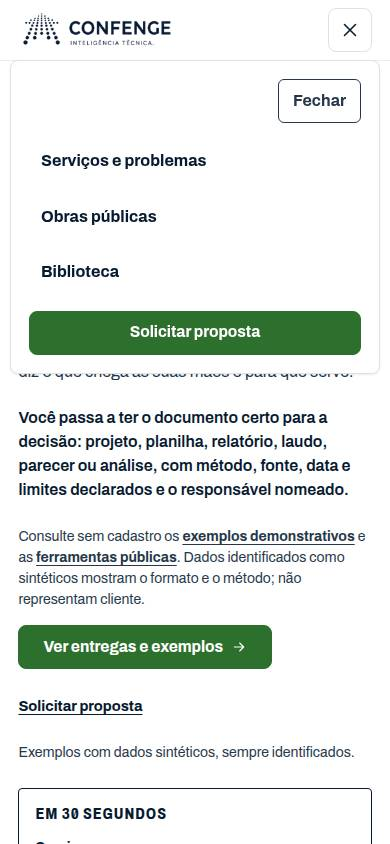
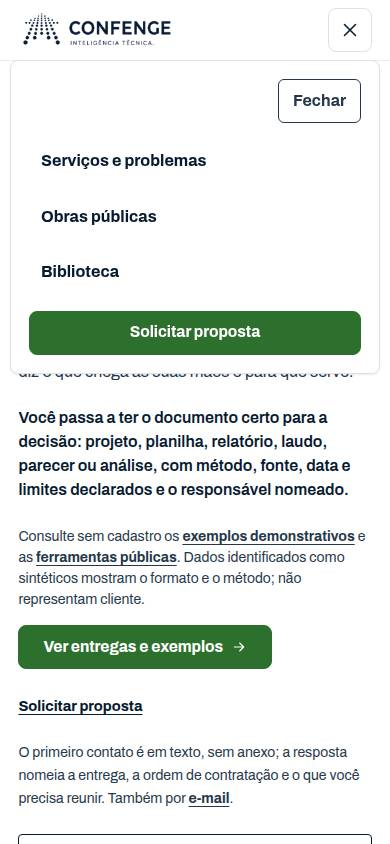
docs(campanha): correcoes apos revisao da onda 2 em /entregas/: relatorio (achado -> acao -> prova, refutacoes parciais, resultado real do task-doors, desempenho remedido), matriz, pedidos 17-22, prancha PG registrada, evidencia 390/1440 recapturada

diff --git a/docs/campaigns/design-institucional/expansao/relatorio-lote-a.md b/docs/campaigns/design-institucional/expansao/relatorio-lote-a.md
@@ -337,29 +337,38 @@ gerado não foi editado à mão):
   (necessidade), `p.hero-deliverable` (o que chega às mãos), `p.offer-proof-line.t-caption` (prova
   conferível, texto idêntico), `svc-open__actions` com **uma** ação dominante `button-primary
   button-lg` "Ver entregas e exemplos" → `#servicos-e-entregas` e "Solicitar proposta" →
-  `#captura-entregas` como alternativa em texto, `svc-open__note` ("Exemplos com dados sintéticos,
-  sempre identificados." — o antigo `hero-h1-note`, gancho do live audit), `aside.aside-note` "Em 30
-  segundos" (Serviços · Análises com preço · Antes do aceite técnico · Quem assina) e `nav.page-index`
-  com quatro âncoras. O antigo bloco navy "Comece pelo que você precisa" saiu (o índice o substitui).
-  Botão dominante medido no Chromium: 669 px no 390×844, 670 px no 1366×768.
+  `#captura-entregas` como alternativa em texto, `svc-open__note` com o e-mail contextual (como no
+  piloto; após a revisão — antes carregava uma segunda ressalva de dados sintéticos), `aside.aside-note`
+  "Em 30 segundos" (Serviços · Análises com preço · Antes do aceite técnico · Quem assina) e
+  `nav.page-index` com quatro âncoras. A ressalva de dados sintéticos fica uma vez na dobra, na
+  `offer-proof-line`, que carrega também o gancho `hero-h1-note` do live audit. O antigo bloco navy
+  "Comece pelo que você precisa" saiu (o índice o substitui). Botão dominante medido no Chromium:
+  669 px no 390×844, 670 px no 1366×768.
 - **Serviços de engenharia** (`section.capability-roll.sec#servicos-e-entregas`, `reading_method`):
   `sec-head--split` (kicker, h2 `t-editorial` com o texto exigido pelo gate, parágrafo) e
-  `ol.list-ruled` com cinco linhas `01–05` (`article.capability-group` preservado com h3, parágrafo e
-  `<a href="/…">`), esquema ilustrativo em `details` regrado na segunda coluna a partir de 900 px, link
-  de saída com seta. Sem grade de cartões.
+  prancha PG `figure.plate.plate--dominant` (`pacote-entrega`, já registrada em `assets-lote-a.json`;
+  slot `<!-- plate:pacote-entrega -->` e `<picture>` emitidos pelo gerador exatamente como
+  `plates/inline.py` os materializa, `inline --check` limpo; legenda com `span.tag` "Exemplo
+  demonstrativo"), e `ol.list-ruled` com cinco linhas `01–05` (`article.capability-group` preservado
+  com h3, parágrafo e `<a href="/…">`), esquema ilustrativo em `details` regrado na segunda coluna a
+  partir de 900 px, link de saída com seta. Sem grade de cartões.
 - **Ofertas com preço publicado** (`section.deliverables-vitrine.sec.sec--soft#enquadrar`,
   `catalog_index`): `sec-head--split`, índice pela decisão `nav.offer-decision-nav.page-index`
   ("Escolha pela decisão que está na mesa", 01–08 → `#entrega-NN`, sem caixa navy), e
   `div.vitrine-items > ol.list-ruled.list-ruled--offers` com as oito linhas: índice, kicker "Oferta
   publicada", h2 (ids `first-deliverable-title` … preservados) e preço à direita (`strong` bare, lido
   por `test_brand_contract`), `dl.vitrine-item__facts` como lista de definição regrada (rótulo | valor;
-  11 critérios, entrega antes do preço; abaixo de 480 px rótulo em coluna de 6 rem e valor em corpo
-  de legenda, sem quebra no meio da palavra), `p.vitrine-item__credit` (condições, byte-idênticas na
-  copy), ações com `button-secondary` (demonstrativo) e `text-link` (pedir). `data-*`, `aria-label`,
-  `data-cta-id`/`position` e `id` iguais.
+  12 linhas, entrega antes do preço, "Pacote e crédito" como última linha com a copy byte-idêntica em
+  `p.vitrine-item__credit` dentro do `dd`; abaixo de 480 px cada linha empilha rótulo sobre valor na
+  largura toda, valor no corpo de 16 px; a partir de 900 px as linhas formam pares em duas colunas da
+  mesma lista), ações com `button-secondary` (demonstrativo) e `text-link` (pedir). `data-*`,
+  `aria-label`, `data-cta-id`/`position` e `id` iguais.
 - **Escada de valor** (`section.offer-value-ladder[data-offer-ladder]`, dentro da seção das ofertas):
-  `sec-head`, `ol.steps` (três passos numerados), `dl.compare-ladder-figures` (classe literal
-  preservada; três números em coluna regrada) e `p.compare-note.t-caption`. Sem caixa escura.
+  `sec-head`, `ol.steps` (três passos numerados; o passo 02 traz a condição integral do pacote que
+  o `aside.deliverables-next` retirado publicava: "por R$ 8.000, pagamento único, e abate o valor de
+  qualquer unidade contratada nos 60 dias anteriores, sem acúmulo"), `dl.compare-ladder-figures`
+  (classe literal preservada; três números em coluna regrada) e `p.compare-note.t-caption`. Sem caixa
+  escura.
 - **Condições e limites** (nova `section.sec.sec--tight#condicoes-e-limites`, `limitation_notice`):
   `div.published-offers__common > div.conditions` com kicker, h2 e quatro itens: informações comuns,
   preço/condições/exemplos (frase exigida pelos gates, idêntica), limites comuns (com "Cobertura, data
@@ -375,17 +384,19 @@ gerado não foi editado à mão):
   local); `div.pillar-capture-after` com `ol.after` (três passos escritos a partir do próprio texto do
   formulário, sem prazo de resposta) e `ul.contact-alt`. Formulário em cartão branco sobre navy, como
   em `index.html#contato`.
-- Ordem **serviços → ofertas** mantida (decisão do fundador 2026-09-09, `test_services_precede…`), e
-  ação dominante da abertura mantida em "Ver entregas e exemplos" (`task-doors.v1.json#first_fold`,
-  `first-fold-contract` e o UI gate a exigem); o formulário é a ação dominante do bloco escuro.
+- Ordem **serviços → ofertas** mantida (`test_services_precede…`), e ação dominante da abertura
+  mantida em "Ver entregas e exemplos" (`task-doors.v1.json#first_fold`, `first-fold-contract` e o UI
+  gate a exigem); o formulário é a ação dominante do bloco escuro. O índice pela decisão é o primeiro
+  bloco da seção das ofertas (pedido 17 registra a decisão de conversão; o gate mede a posição em
+  relação à seção e à entrada do índice da página).
 
 Conteúdo protegido conferido: `<title>`/description/OG, canonical, robots, JSON-LD (só
 `dateModified` sincronizado pelo gerador, sem mudança), preços, prazos, condições, créditos, textos de
 CTA, `data-cta-id`/`data-cta-position`/`data-asset-id`/`data-offer-*`, ids `entrega-01..08` e dos h2,
 `#servicos-e-entregas`, `#enquadrar`, `#captura-entregas`, rótulos de veracidade ("exemplo sintético",
-"não representam cliente", "Dados identificados como sintéticos"). `main a` = 52, `button-primary`
+"não representam cliente", "Dados identificados como sintéticos"). `main a` = 53, `button-primary`
 = 4 (dois no cabeçalho, um na abertura, um no formulário), um `<form>` depois de `#entrega-08`,
-5 `details` = 5 `summary`.
+5 `details` = 5 `summary`, 1 `figure.plate`.
 
 ### Desempenho (gate do repositório, `run_lighthouse.mjs --only=/,/entregas/ --runs=3`, Chromium 1234, árvore fonte servida com gzip, mesma máquina)
 
@@ -393,9 +404,12 @@ CTA, `data-cta-id`/`data-cta-position`/`data-asset-id`/`data-offer-*`, ids `entr
 | --- | --- | --- | --- | --- | --- | --- |
 | antes (`2da310422`, worktree isolada, `--label=onda2-entregas-base`) | 99 | 1.803–1.805 | 1.354–1.358 | 769 | 144.989 | html 13.938 · fonte 60.064 · styles 21.017 · styles-offers 2.502 · entregas/styles 4.417 · script 24.308 · logo 10.605 · tokens 1.247 · ícones 6.891 |
 | depois (`--label=onda2-entregas`) | 99 | 1.953–1.957 | 1.504–1.510 | 826 | 148.743 | html 14.699 · fonte 60.064 · styles 21.017 · editorial 7.667 · entregas/styles 2.245 · script 24.308 · logo 10.605 · tokens 1.247 · ícones 6.891 |
+| após a revisão (`--label=onda2-entregas-fix`, `CHROME_PATH` = Chromium 1234 do Playwright) | 99 | 1.953–1.967 | 1.356–1.504 | 854 | 150.487 | html 15.437 · fonte 60.257 · styles 21.232 · editorial 7.882 · entregas/styles 2.660 · script 24.537 · logo 10.797 · tokens 1.461 · prancha PG móvel 1.255 · ícones 6.871 |
 
-`MEASURED_PASS` nas duas medições (tetos: LCP 2.000 ms, 153.600 B, DOM 1.100, perf ≥ 95), mas o LCP
-passou a 45 ms do teto. Diagnóstico com Lighthouse direto (mesma emulação do runner, árvore fonte com
+`MEASURED_PASS` nas três medições (tetos: LCP 2.000 ms, 153.600 B, DOM 1.100, perf ≥ 95), mas o LCP
+passou a 45 ms do teto (33 ms na pior corrida após a revisão) e o conteúdo a 3.113 B do teto: a prancha
+PG entra na carga medida mesmo com `loading="lazy"` (1.255 B gzip, o SVG móvel), e a vitrine
+empilhada custa +738 B de HTML gzip. O `summary-onda2-entregas-fix.json` foi apagado (não commitado). Diagnóstico com Lighthouse direto (mesma emulação do runner, árvore fonte com
 gzip, 1 run por variante, valores estáveis entre repetições):
 
 | Variante | FCP (ms) | LCP (ms) | Elemento LCP |
@@ -440,22 +454,25 @@ commitados). Pedido 11.
 | `npm run test:deliverables-registry` | `3650/3650` |
 | `npm run test:real-proof-registry`, `test:commercial-contract-consistency`, `test:public-offer-truth` | exit 0 |
 | `npm run test:page-contract-eight` | `735/735` |
-| `npm run test:task-doors` | `240/240` |
+| `npm run test:task-doors` | **`239/240` no HEAD `de1984156`** (`FAIL style_uses_stacked_mobile_comparison`; o relatório anterior declarava 240/240 — falso) → `240/240` após a correção `7fecede3a` |
 | `npm run test:deliverables-hub` | `27 passed` |
-| `node scripts/site/test_deliverables_hub_ui.mjs` (árvore fonte, 11 larguras) | `DELIVERABLES_HUB_UI {"ok":true}`; altura 21.485 px a 390, índice pela decisão a 4.361 px, 52 links, 2 primários, sem estouro |
-| `npm run test:cta-form-next-state` | `CTA_FORM_NEXT_STATE_OK routes=31` (censo regerado: 184) |
+| `node scripts/site/test_deliverables_hub_ui.mjs` (árvore fonte, 11 larguras) | `DELIVERABLES_HUB_UI {"ok":true}`; a 390: altura 24.037 px, índice pela decisão a 346 px do topo de `#enquadrar`, entrada 02 do índice da página a 1.439 px, 53 links, 2 primários, sem estouro; a 1440: 13.591 px |
+| `npm run test:cta-form-next-state` | `CTA_FORM_NEXT_STATE_OK routes=31` (censo regerado: 185) |
 | `npm run test:form-funnel` | `FORM_FUNNEL_OK` |
 | `npm run test:report-model`, `test:deliverable-models`, `test:deliverables-live-audit` | exit 0 |
 | `npm run test:value-first-copy`, `test:offer-naming`, `test:page-contract-operacao/execucao/ciclo/pre-edital`, `test:pricing-policy`, `test:market-fit-protocol`, `test:query-ownership` | exit 0 |
 | `node --test tests/intake/test_mv03_adaptive_intake.mjs` | `pass 17, fail 0` |
 | `node tests/inb-20260911/12/…`, `tests/attribution/test_source_to_service.mjs`, `scripts/site/test_lead_function.mjs` | `PASS` / `ATTRIBUTION_OK` / `LEAD_FUNCTION_OK tests=94` |
-| `python3 scripts/site/audit_css_usage.py` | `CSS_USAGE_OK` (entregas/styles.css 30/30 em uso; decoração 144/60/14 abaixo do baseline) |
+| `python3 scripts/site/audit_css_usage.py` | `CSS_USAGE_OK` |
+| `python3 -m scripts.demonstrative.plates.inline --check` | `OK plates inline` (slot da prancha PG em `/entregas/` emitido pelo gerador) |
+| `npm run test:lighthouse-gates` | exit 0 (contrato/rehearsal; a primeira execução da rodada terminou em exit 1 sem `FAIL` nomeado, com o rehearsal de infra em `/tmp`, e a segunda, na mesma árvore, passou: `25 cases OK`) |
+| `npm run test:visible-parity` | exit 0 |
 | `node scripts/site/test_ui_geometry.mjs` (árvore fonte) | `All UI geometry tests passed` (`entregas_deliverable_option_drives_journey` OK) |
 | `npm run test:copy-contract` | FAIL `forbidden_language:/diagnostico-b2g-360/:FL-08` — idêntico na base (fora do lote) |
 | `npm run test:page-contract-licitacao` | FAIL `dedicated_route_remains_frozen`, `public_renderer_has_no_drift` — idênticos na base (rota congelada do integrador) |
 | `npm run test:bofu-dominance` | 11 failed / 106 passed — conjunto **idêntico** ao da base (diff vazio entre as listas) |
 | `npm run test:first-fold-contract` | FAIL `evidence_/entregas/_html_bytes_match` (esperado: hash `a97308da…` de `entregas/index.html` e `entregas/styles.css` nos `input_hashes`) + as falhas já presentes na base (home, pilares, `styles.css`, `editorial.css`) |
-| `node scripts/site/run_lighthouse.mjs --only=/,/entregas/ --runs=3 --label=onda2-entregas` | `MEASURED_PASS`; números na tabela acima |
+| `node scripts/site/run_lighthouse.mjs --only=/,/entregas/ --runs=3 --label=onda2-entregas` (e `--label=onda2-entregas-fix` após a revisão) | `MEASURED_PASS`; números na tabela acima |
 | `npm run build:site` | **exit 2 na worktree e na base `2da310422`**: `FAIL-CLOSED contract-analysis build: contract_analysis_build_missing` (`approval_rendered_hash_mismatch` em `docs/editorial/CONTRACT_ANALYSIS_CANARY_STATUS`), cadeia de fechamento do integrador (`approvals.json` antes do build). Saídas rastreadas revertidas por caminho nomeado; `_site` apagado. Por isso `test:deliverables-hub-ui`, `test:ui` e Lighthouse rodaram sobre a árvore fonte, e `test:responsive-matrix`/`test:html-integrity:site` (exigem `_site`) não rodaram. |
 
 ### Testes ajustados (estéticos, por rota exata, com motivo no commit `eeca0e814`)
@@ -464,8 +481,8 @@ commitados). Pedido 11.
 | --- | --- | --- |
 | `scripts/site/test_deliverables_hub.py::test_progressive_catalog_controls_keep_a_mobile_touch_target` e `::test_progressive_catalog_css_does_not_block_first_paint` | `.capability-group>summary` (64 px; seletor morto desde que os grupos viraram `article`) → `.capability-group__schema-details>summary` (44 px); `.offer-decision-nav a` 52 px mantido | os alvos de toque continuam declarados na folha da rota, nos seletores que a composição usa |
 | `::test_services_precede_the_eight_decidable_offers_without_internal_roll` | `class="offer-decision-nav"` literal → prefixo (`offer-decision-nav page-index`) | o índice pela decisão carrega também a classe do componente do piloto; ordem serviços → índice → ofertas continua verificada |
-| `scripts/site/test_deliverables_hub_ui.mjs` | índice pela decisão medido como lista regrada (alvos ≥ 44 px, sem estouro, sem palavra quebrada, largura ≥ 110 px a 320, fonte ≥ 12,8) em vez de grade de duas colunas; altura do documento 18.600 → 21.700 (medido 21.485), posição do índice 1.800 → 4.600 (medido 4.361; fica depois dos serviços), altura do índice ≤ 560 a ≤ 360; `main a` 50 → 54 (medido 52) | composição regrada com filete por critério e índice de página; nenhum campo acrescentado ou escondido |
-| `tests/commercial/test_task_doors.mjs` | `hero_explains_engineering_value`: `<header class="deliverables-hero"` → `class="deliverables-hero[^"]*"`; `style_uses_stacked_mobile_comparison`: da grade `78px` antiga para a regra nova (`minmax(7rem,11rem) minmax(0,1fr)` + coluna de rótulo abaixo de 480 px) | mesmas propriedades (texto do herói ≥ 160 chars com entreg/engenharia/serv; comparação empilhada por critério no celular) |
+| `scripts/site/test_deliverables_hub_ui.mjs` | índice pela decisão medido como lista regrada (alvos ≥ 44 px, sem estouro, sem palavra quebrada, largura ≥ 110 px a 320, fonte ≥ 12,8) em vez de grade de duas colunas; altura do documento 18.600 → 21.700 → **24.300 após a revisão** (medido 24.037); o guarda absoluto da posição do índice (1.800, afrouxado para 4.600 na onda 2) foi **substituído** por dois invariantes relativos (índice a ≤ 500 px do topo de `#enquadrar`, medido 346; entrada 02 do índice da página a ≤ 1.800 px, medido 1.439); altura do índice ≤ 560 a ≤ 360; `main a` 50 → 54 (medido 53) | composição regrada com filete por critério e índice de página; nenhum campo acrescentado ou escondido; a geometria de conversão passa a ser medida em relação à seção, não por um número solto |
+| `tests/commercial/test_task_doors.mjs` | `hero_explains_engineering_value`: `<header class="deliverables-hero"` → `class="deliverables-hero[^"]*"`; `style_uses_stacked_mobile_comparison`: da grade `78px` antiga para a regra nova (`minmax(7rem,11rem) minmax(0,1fr)` na base + `grid-template-columns:minmax(0,1fr)` literal abaixo de 480 px) | mesmas propriedades (texto do herói ≥ 160 chars com entreg/engenharia/serv; comparação empilhada por critério no celular). **A onda 2 ajustou a asserção mas não implementou o CSS que ela exige** (a folha mantinha `6rem minmax(0,1fr)`): 239/240 no HEAD `de1984156`; corrigido no CSS, não na regex, em `7fecede3a` |
 | `tests/commercial/test_page_contract_eight.mjs` | `hub_css_local`: `.capability-roll` na folha da rota → `.capability-group`, e exige `/assets/editorial.css` ligada | a folha da rota deixou de estilizar a seção (é `.sec`) e ficou com as linhas |
 
 Não ajustados: nenhum teste de veracidade, preço, responsabilidade, privacidade, formulário,
@@ -487,3 +504,33 @@ persistência ou revisão obrigatória. `data/commercial/cta-form-next-state.v1.
 - Subconjunto de folha editorial para hubs (alavanca de FCP medida): arquivo do integrador; pedido 11.
 - `test:responsive-matrix` e `test:html-integrity:site`: exigem `_site`, que não constrói nesta
   árvore nem na base (cadeia de fechamento do integrador).
+
+### Correções após revisão — onda 2 (`/entregas/`)
+
+Dois revisores independentes (R1 e R2) sobre o HEAD `de1984156`. Veredito de R1: "NÃO ACEITAR como
+está". Commits da rodada: `7fecede3a` (rota, gerador, censo), `ecefa5664` (gate do hub) e este
+relatório. Recaptura 390/1440 com a tag `onda2` (imagens abertas e conferidas; manifesto
+`manifest-onda2.json`: 24.037 / 13.591 px, overflow 320 = 0).
+
+| # | Achado (severidade, fonte) | Ação | Prova |
+| --- | --- | --- | --- |
+| 1 | **ALTA** (R1, R2): `test:task-doors` reprovava no HEAD (239/240, `style_uses_stacked_mobile_comparison`) e o relatório declarava 240/240; a asserção ajustada exigia empilhar rótulo sobre valor abaixo de 480 px e o CSS mantinha duas colunas (`6rem minmax(0,1fr)`). | Procedente. Corrigido **no CSS**, não na regex: `@media (max-width:480px){.vitrine-item__facts>div{grid-template-columns:minmax(0,1fr)}}` (regra literal que o gate lê), `gap`/`padding` em regra separada, `dd` no corpo (16 px; o override de legenda saiu). Comentários do CSS e do teste passaram a descrever o que existe. Tabela de testes corrigida com o resultado real do HEAD anterior. | `node tests/commercial/test_task_doors.mjs` → `240/240`; medição Chromium a 390: `ddFont=16px`, `ddW=301` (largura toda da coluna de conteúdo); `entregas-390x844-full-onda2.jpg`. |
+| 2 | **MÉDIA** (R1): catálogo ilegível a 390 (rótulo 96 px, valor 196 px a 14 px, rótulos em 3 linhas). | Mesma correção do #1; nenhum rótulo quebra, valor a 16 px na largura toda. | Idem; `m390` fatias 3–4 da captura. |
+| 3 | **MÉDIA** (R1, R2): LCP a 45 ms do teto na rota crítica do gate de Lighthouse; bloqueia a promoção, alavanca (subconjunto de `editorial.css`) do integrador. | Fora do alcance do lote (ambos os revisores escopam à promoção). Remedido após a rodada: LCP 1.953–1.967 ms, FCP 1.356–1.504, conteúdo 150.487 B (prancha PG móvel entra na carga medida mesmo `lazy`: +1.255 B; HTML +738 B). Pedido 11 reescrito com os números novos; se a borda medir > 2.000 ms, a reversão do eixo largo do `h1` (ganho de FCP de 145 ms demonstrado) é a alavanca de rota que sobra. | `run_lighthouse.mjs --only=/,/entregas/ --runs=3 --label=onda2-entregas-fix` → `MEASURED_PASS` (tabela de desempenho). |
+| 4 | **MÉDIA** (R1): página mais longa que a produção e o hub piloto (21.485 / 18.159 / 15.959 a 390; 14.909 / 12.007 / 9.931 a 1440); tetos do gate movidos. | Parcialmente procedente. A 1440 os critérios formam **pares em duas colunas** da mesma lista (`@media (min-width:900px)`, todos os campos visíveis): oferta 735–753 px (era 1.166; cartão antigo ~850), página **14.909 → 13.591**. A 390 a página **cresceu** para 24.037: é o custo de 8 ofertas × 12 critérios empilhados na largura toda com o valor no corpo (#1 e #2, exigidos pela mesma revisão) mais a prancha PG (#7); paddings reduzidos (`.4rem`), primeiro esquema mantido fechado para não somar ~600 px. A alternativa de voltar o valor a 14 px (como a produção, `--text-small`) foi descartada porque contraria a legibilidade das condições materiais pedida no #2. Teto do gate recalibrado com o medido + 1,1 % (24.300), não deixado folgado. | `measure.mjs` (Chromium): `vitrines` 390 = [1986, 1517, 1563, 1517, 1563, 1517, 1494, 1446]; 1440 = [1050, 735, 753, 735, 735, 735, 735, 753]; `#enquadrar` 15.135 / 8.313 px. |
+| 5 | **MÉDIA** (R1, R2): condição "pagamento único" do pacote de R$ 8.000 sumiu da rota com o `aside.deliverables-next`. | Procedente. A condição integral do aside entrou no passo 02 da escada, via gerador, com a copy da base: "reúne … por R$ 8.000, **pagamento único, e abate o valor de qualquer unidade contratada nos 60 dias anteriores, sem acúmulo**" (`pkg.credit_window_days`, `pkg.credit_stacking_note`). Não é derivável do contrato (`page-contract-eight.v1.json#package` não tem campo de forma de pagamento) — registrado no pedido 18 para o dono do dado. | `grep -c 'pagamento único' entregas/index.html` = 1; `test:public-offer-truth 132/132`, `test:commercial-contract-consistency 521/521`, `test:page-contract-eight 735/735`. |
+| 6 | **MÉDIA** (R1): ressalva de dados sintéticos repetida na dobra (`offer-proof-line` + `svc-open__note`). | Procedente. Uma frase de veracidade na abertura (`offer-proof-line`, que passou a carregar também o gancho `hero-h1-note` lido por `audit_deliverables_live.mjs:339`); o slot `svc-open__note` recebeu o e-mail contextual, como no piloto ("O primeiro contato é em texto, sem anexo; a resposta nomeia a entrega…", derivado do próprio texto do formulário). A ressalva completa segue só em Condições e limites e na nota da escada (esta última é copy protegida do gerador). Censo de CTAs 184 → 185 com motivo. | `grep -c 'sempre identificados'` = 0; `hero_synthetic_disclosure` OK; `test:cta-form-next-state` OK. |
+| 7 | **MÉDIA** (R1): ação dominante leva a esquemas fechados, coluna direita vazia em ≥ 900 px, nenhuma prancha na rota. | Procedente na parte da prancha: a prancha PG `pacote-entrega` (registrada no lote A, mesma família de conteúdo do esquema 01) entra como `figure.plate.plate--dominant` logo após a cabeça da seção de serviços, onde o botão "Ver entregas e exemplos" aterrissa, com `span.tag` "Exemplo demonstrativo" e legenda derivada da própria prancha. Emitida pelo gerador com o slot e o `<picture>` byte-idênticos aos de `plates/inline.py` (ambos os `--check` passam). Os cinco `details` continuam fechados (divulgação progressiva decidida em 2026-09-10 e exigida pelos gates de `summary`; abrir o primeiro custaria ~600 px a 390). A coluna direita em ≥ 900 px segue com o `summary` de uma linha: não há como abrir um `details` por CSS, e trocar a grade por bloco corrido deixaria a linha inteira só com texto. | `git grep -c 'figure class="plate' entregas/index.html` = 1; `inline --check` OK; `d-plate` na captura 1440. |
+| 8 | **MÉDIA** (R2): índice pela decisão movido para depois dos serviços (1.017 → 4.361 px) com o guarda afrouxado 1.800 → 4.600; justificativa pela decisão do fundador não cobre a mudança. | Procedente quanto à justificativa e ao limiar: a frase sobre o fundador saiu do gate, da matriz e do relatório. A posição foi **mantida** com decisão explícita registrada (pedido 17, para o integrador/fundador confirmar): o índice pela decisão é o primeiro bloco da seção das ofertas, e a entrada "02 Análises com preço publicado" do índice da página, na abertura, leva até ele em um toque. O gate deixou de usar um número solto e passou a cobrir a posição **relativa**: índice a ≤ 500 px do topo de `#enquadrar` (medido 346) e entrada do índice da página a ≤ 1.800 px (medido 1.439), reprovando se o índice se afastar da cabeça da seção ou a entrada sair da abertura. Não restaurei a emissão antecipada: dois índices em sequência na abertura (página + decisão) repetiria a caixa navy que a campanha retira. | `ecefa5664`; `DELIVERABLES_HUB_UI ok:true`; métricas `offersSectionTop`/`pageIndexOffersLinkTop` no relatório do gate. |
+| 9 | **BAIXA** (R1): índice pela decisão com quebra irregular a 390. | Procedente. `.offer-decision-nav li{flex-basis:100%}` abaixo de 480 px: um item por linha. | `navLis` 390 = [18 × 8]. |
+| 10 | **BAIXA** (R1): "Pacote e crédito" órfão fora do ritmo da lista. | Procedente com **refutação parcial** da forma proposta: `<dd class="vitrine-item__credit">` quebraria `test_deliverables_hub.py:373` (veracidade: sem "sintético" no crédito) e `:502`, que leem `class="vitrine-item__credit">…</p>`. Forma adotada: `<div class="vitrine-item__credit-row"><dt>Pacote e crédito</dt><dd><p class="vitrine-item__credit">…</p></dd></div>`, copy idêntica sem o `<strong>` inicial (nenhum gate o referencia). | `test:deliverables-hub 27 passed`; `d1440-3` na captura. |
+| 11 | **BAIXA** (R1): sem WhatsApp em `contact-alt`. | Decisão registrada, sem alteração: a base também não tinha `wa.me` (não é regressão); o formulário é a ação dominante e o e-mail a alternativa subordinada; um `wa.me` novo com texto pré-preenchido seria link de contato novo (§3) e mais um salto no censo de CTAs. Fica no pedido 19 para o dono da rota decidir. | `grep -c wa.me entregas/index.html` = 0 (base e HEAD). |
+| 12 | **BAIXA** (R2): copy nova de condição hard-coded no gerador ("Serviços de engenharia por proposta…") e título do bloco alterado. | Mantida e registrada como copy autorizada: a frase deriva do AGENTS.md ("before technical acceptance confirm scope, location, field/logistics, proven professional attribution … and ART when applicable") e o `aside-note` da abertura aponta para "Condições e limites" justamente por ela. Pedido 20 propõe levá-la ao contrato de copy do hub. | — |
+| 13 | **PREFERÊNCIA** (R1): valores em minúscula e par PRAZO / QUANDO A CONTAGEM COMEÇA repetido nas ofertas 01 e 08. | Herdado da base, copy protegida do contrato de dados; pedido 18 ao dono do dado. | `grep -c '<dd>uma empresa'` = 1 na base e no HEAD. |
+| 14 | **PREFERÊNCIA** (R1): menu móvel com dois controles de fechar. | Casca do integrador (`scripts/site/shell_nav.py`); pedido 21. | `entregas-390x844-menu-onda2.jpg`. |
+| 15 | R2, último achado (BAIXA) truncado na entrega da revisão ("ramo campaign/salto-02/lote-a (HEAD de1984156, merge-base 2da3104…"). | Sem texto para agir; registrado (pedido 22) para que o integrador o recupere da revisão original. | — |
+
+Refutações com evidência: nenhuma total. Parciais: #10 (forma proposta quebra gate de veracidade;
+adotada forma equivalente) e #4 (a 390 a página não encurta sem contrariar #1/#2; encurtou a 1440).
+Notas de R1 por dimensão que esta rodada ataca: densidade/legibilidade móvel (#1, #2, #9),
+composição (#4, #7, #10), hierarquia (#6, #8).

diff --git a/docs/campaigns/design-institucional/expansao/pedidos-lote-a.md b/docs/campaigns/design-institucional/expansao/pedidos-lote-a.md
@@ -21,7 +21,18 @@ ou registros de falhas herdadas do commit base (8860f5577), fora do lote A.
 
 | # | Arquivo do integrador | Seletor / trecho | Página(s) | Motivo |
 | --- | --- | --- | --- | --- |
-| 11 | `assets/editorial.css` → subconjunto para hubs gerado por `scripts/site/build_css.py` (como `editorial-article.css` e `editorial-tool.css`; `test:design` roda `build_css.py --check`) e recaptura de Lighthouse sobre `_site` | tipos (`.t-*`), `.sec*`, `.sec-head*`, `.page-index*`, `.svc-open*`, `.conditions*`, `.after*`, `.contact-primary/.contact-alt`, `.nowrap` | `/entregas/` (rota crítica do gate de Lighthouse; serve também `/servicos/`, `/casos/`) | O hub usa ~9 KB brutos da folha editorial de 42 KB (7,7 KB gzip). Medido (runner do repositório, 3 runs, árvore fonte com gzip, mesma máquina): antes 144.989 B / LCP 1.803–1.805 ms / FCP 1.354–1.358; depois 148.743 B / LCP 1.953–1.957 / FCP 1.504–1.510 (`MEASURED_PASS`, 45 ms do teto). Variantes com Lighthouse direto (tabela no relatório): o subconjunto de 9,4 KB devolve o **FCP** a 1.366 ms (−145 ms) e o eixo largo do h1 responde pelos mesmos 145 ms; o **LCP** é invariante (~1.960 ms em dez variantes, inclusive sem folha editorial e no HTML antigo com ela), porque o elemento LCP passou a ser o `h1` e sua pintura simulada cai nesse ponto. Não há alavanca de LCP no lote (`build_css.py` e `editorial.css` são do integrador). Ação: gerar o subconjunto para hubs (recupera o FCP) e medir o LCP de `/entregas/` sobre `_site` no CI antes da promoção; a nota `aceite-runtime-lighthouse-borda` registra ~300 ms de diferença laboratório→borda e três reversões por isso. |
+| 11 | `assets/editorial.css` → subconjunto para hubs gerado por `scripts/site/build_css.py` (como `editorial-article.css` e `editorial-tool.css`; `test:design` roda `build_css.py --check`) e recaptura de Lighthouse sobre `_site` | tipos (`.t-*`), `.sec*`, `.sec-head*`, `.page-index*`, `.svc-open*`, `.conditions*`, `.after*`, `.contact-primary/.contact-alt`, `.nowrap` | `/entregas/` (rota crítica do gate de Lighthouse; serve também `/servicos/`, `/casos/`) | O hub usa ~9 KB brutos da folha editorial de 42 KB (7,7 KB gzip). Medido (runner do repositório, 3 runs, árvore fonte com gzip, mesma máquina): antes 144.989 B / LCP 1.803–1.805 ms / FCP 1.354–1.358; depois 148.743 B / LCP 1.953–1.957 / FCP 1.504–1.510 (`MEASURED_PASS`, 45 ms do teto). Variantes com Lighthouse direto (tabela no relatório): o subconjunto de 9,4 KB devolve o **FCP** a 1.366 ms (−145 ms) e o eixo largo do h1 responde pelos mesmos 145 ms; o **LCP** é invariante (~1.960 ms em dez variantes, inclusive sem folha editorial e no HTML antigo com ela), porque o elemento LCP passou a ser o `h1` e sua pintura simulada cai nesse ponto. Não há alavanca de LCP no lote (`build_css.py` e `editorial.css` são do integrador). Ação: gerar o subconjunto para hubs (recupera o FCP) e medir o LCP de `/entregas/` sobre `_site` no CI antes da promoção; a nota `aceite-runtime-lighthouse-borda` registra ~300 ms de diferença laboratório→borda e três reversões por isso. **Após a revisão** (`--label=onda2-entregas-fix`): LCP 1.953–1.967 ms, FCP 1.356–1.504, DOM 854, conteúdo 150.487 B (teto 153.600; a prancha PG móvel, 1.255 B gzip, entra na carga medida mesmo `lazy`). Se a borda medir > 2.000 ms, a alavanca de rota que sobra é reverter o eixo largo do `h1` nesta rota (−145 ms de FCP demonstrados); a prancha pode ser retirada da rota se o teto de conteúdo apertar. |
 | 12 | `data/commercial/first-fold-measurements.v1.json` | `routes[route=/entregas/]` (`html_sha256` `a97308da…`, `input_hashes` de `entregas/index.html` e `entregas/styles.css`) | `/entregas/` | Recaptura de primeira dobra na cadeia de fechamento: os cinco papéis continuam nos seletores das regras (`header .eyebrow` bare, `h1`, `.deliverables-lead`, `.offer-proof-line`, uma `a.button-primary`), ação dominante a 669 px (390×844) e 670 px (1366×768) medidos no Chromium. |
 | 13 | `scripts/pseo/build_site.py` / `docs/editorial/contract-analysis/review/13ec…/` (`approvals.json`) | `FAIL-CLOSED contract-analysis build: contract_analysis_build_missing` (`approval_rendered_hash_mismatch`) | `npm run build:site` | Reprova identicamente na base `2da310422` (worktree isolada) e no HEAD do lote; é a etapa "approvals.json antes do build" da cadeia de fechamento de CSS. Enquanto isso, `test:responsive-matrix` e `test:html-integrity:site` não têm `_site` para rodar e `test:deliverables-hub-ui`/`test:ui`/Lighthouse foram rodados sobre a árvore fonte. |
 | 14 | `scripts/site/audit_deliverables_live.mjs` (`audit:deliverables-live`, L419–421) | `capability_count`, `capability_semantics`, `capability_identity_or_state_drift` leem `[data-capability-id][data-public-state]` e esperam 54 linhas | `/entregas/` | Contradição pré-existente (não é da onda 2): `tests/commercial/test_task_doors.mjs::public_page_has_no_maturity_census` **proíbe** `data-capability-id` na página desde 2026-09-09, e o HTML não emite essas linhas desde então. `site-ci.yml:245` roda só `test:deliverables-live-audit` (contrato, passa); quem rodar o audit ao vivo depois da promoção verá essas três falhas independentemente desta onda. Alinhar o audit ao contrato atual (8 ofertas, sem censo interno). |
+
+## Onda 2 — após a revisão (`/entregas/`)
+
+| # | Arquivo / dono | Seletor / trecho | Página(s) | Motivo |
+| --- | --- | --- | --- | --- |
+| 17 | Integrador / fundador (decisão de conversão) | `nav.offer-decision-nav.page-index` dentro de `section#enquadrar`, logo após `header.sec-head`; entrada `02 Análises com preço publicado` do `nav.page-index` da abertura | `/entregas/` | A revisão (R2) apontou que o índice pela decisão (entrada das oito ofertas pagas) saiu de ~1.017 px para ~4.361 px a 390 na onda 2 e que o guarda do gate tinha sido afrouxado sem decisão registrada. Decisão do lote, para confirmação: o índice é o primeiro bloco da seção das ofertas e a entrada 02 do índice da página (a 1.439 px a 390, dentro da abertura) leva até ele em um toque; restaurar a emissão antecipada colocaria dois índices em sequência na abertura (a caixa navy que a campanha retira). O gate `test_deliverables_hub_ui.mjs` passou a medir a posição **relativa** (≤ 500 px do topo de `#enquadrar`; entrada ≤ 1.800 px). Se o fundador preferir o índice antes dos serviços, basta devolver `renderDecisionNav` a `renderCatalog` no gerador e ajustar os dois invariantes. |
+| 18 | `data/commercial/page-contract-eight.v1.json` (dono do contrato de dados do catálogo) | `package` (forma de pagamento), `items[].value_first.*`, `objeto_incluido`, `saida_minima`, `sla` | `/entregas/` | (a) "pagamento único" não existe no contrato (o pacote tem `credit_*` mas não forma de pagamento); o lote reintroduziu a condição com a copy literal da base no passo 02 da escada — vale um campo (`package.payment_terms_pt_br`) para o gerador derivar. (b) PREFERÊNCIA da revisão: valores começando em minúscula ("uma empresa, um recorte…", "após informações necessárias confirmadas.", "leitura de direção…", "módulos já reconciliados…") e PRAZO / QUANDO A CONTAGEM COMEÇA repetindo "após informações necessárias confirmadas" nas ofertas 01 e 08. Copy protegida (§3), herdada da base; corrigir no dado, não no lote. |
+| 19 | Dono da rota `/entregas/` (família `entregas`) | `ul.contact-alt` do bloco escuro `#captura-entregas` | `/entregas/` | A revisão (BAIXA) notou que a rota não tem `wa.me` enquanto o esqueleto do caderno prevê `.contact-alt` (WhatsApp, e-mail). A base também não tinha; o lote não acrescentou (link de contato novo com texto pré-preenchido é §3; o formulário é a ação dominante e o e-mail a alternativa). Se autorizado, usar o texto já publicado em `/servicos/` ("Olá, Tiago. Quero explicar uma situação técnica e entender o próximo passo.") e regerar o censo de CTAs. |
+| 20 | `data/commercial/page-contract-eight.v1.json` ou contrato de copy do hub | item "Serviços de engenharia por proposta." de `section#condicoes-e-limites` (gerador, hard-coded) | `/entregas/` | R2 (BAIXA): frase de condição fora de contrato de dados. Mantida: deriva do AGENTS.md (confirmar escopo, local, campo, atribuição profissional e ART antes do aceite técnico) e o `aside-note` "Antes do aceite técnico" da abertura remete a ela. Registrar como copy autorizada do hub ou derivar de `common_boundaries`. |
+| 21 | `scripts/site/shell_nav.py` | `nav#mobile-menu`: botão "Fechar" dentro do painel + X no cabeçalho | todas (casca) | PREFERÊNCIA da revisão: dois controles de fechar no menu móvel (`entregas-390x844-menu-onda2.jpg`). Casca do integrador. |
+| 22 | Revisor R2 / integrador | último achado (BAIXA) da revisão de R2, truncado na entrega ("ramo campaign/salto-02/lote-a (HEAD de1984156, merge-base 2da3104…") | — | Sem texto para agir; recuperar da revisão original antes do fechamento. |
